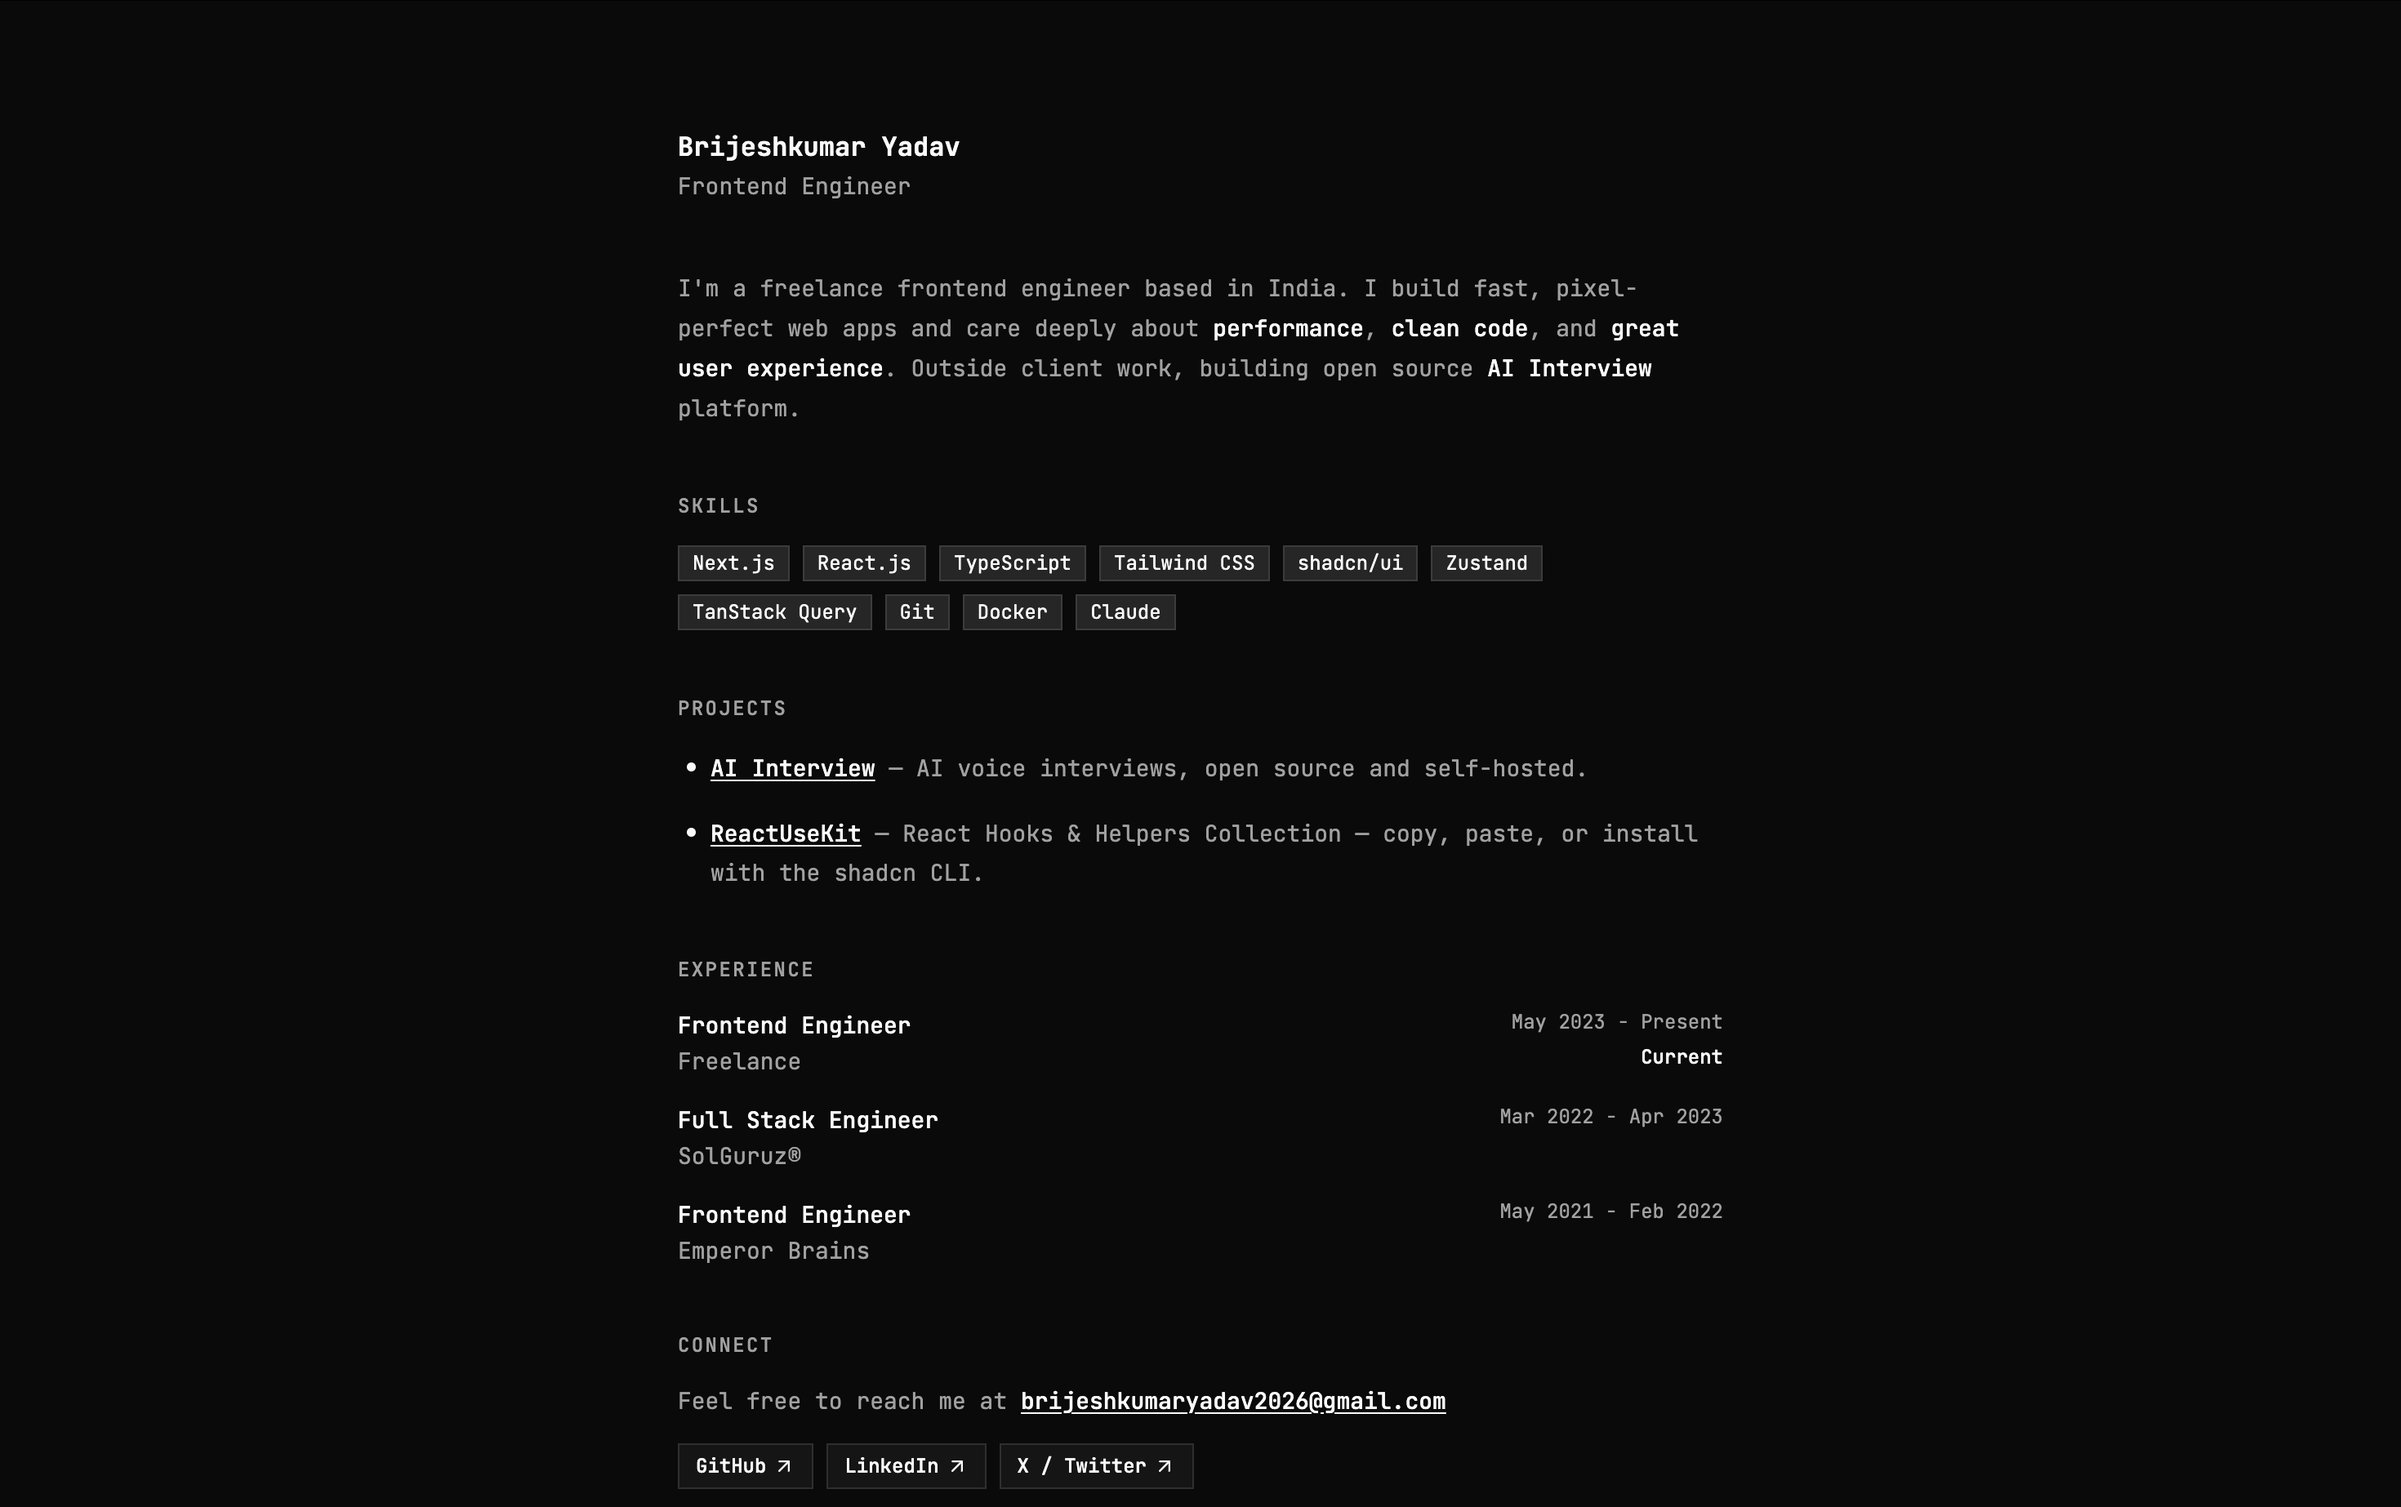
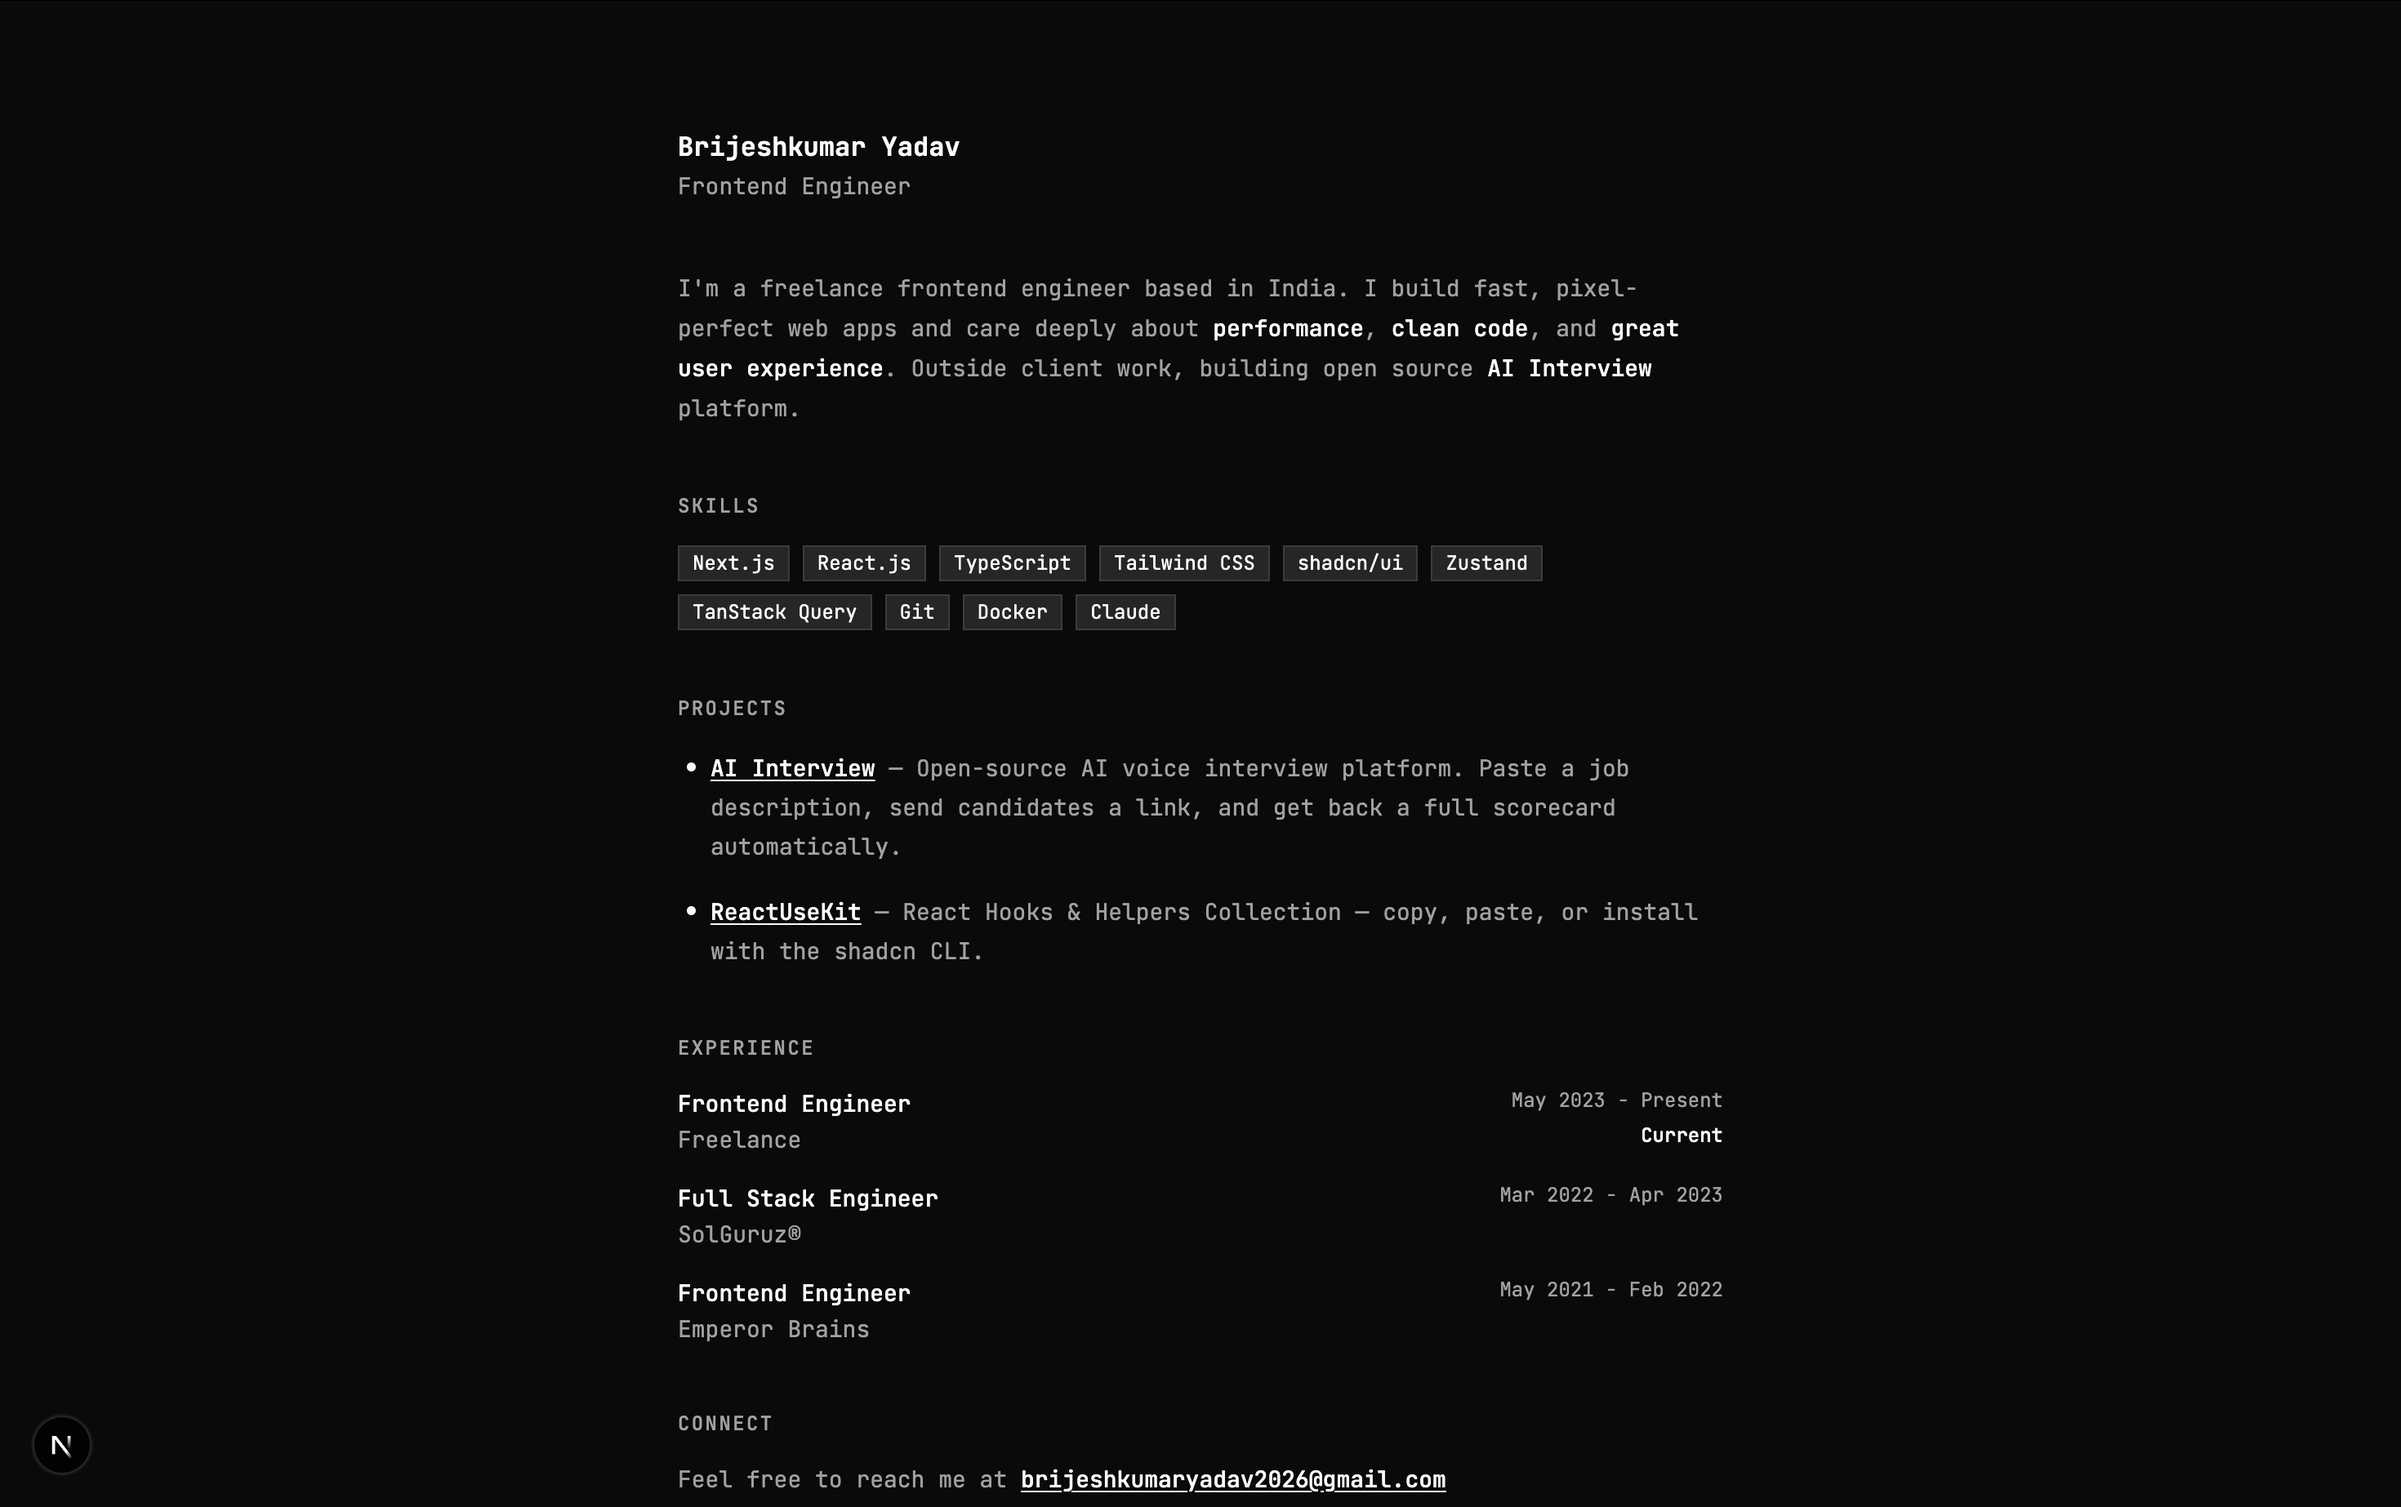
chore: update AI Interview description and refresh screenshots

diff --git a/src/lib/data.ts b/src/lib/data.ts
@@ -57,7 +57,8 @@ export const workExperience: WorkExperience[] = [
 export const projects: Project[] = [
   {
     title: "AI Interview",
-    description: "AI voice interviews, open source and self-hosted.",
+    description:
+      "Open-source AI voice interview platform. Paste a job description, send candidates a link, and get back a full scorecard automatically.",
     techStack: ["Next.js", "Tailwind CSS", "shadcn/ui", "better-auth", "AI", "Voice AI"],
     githubUrl: "https://github.com/brijeshmarch16/ai-interview",
     liveUrl: "https://ai-interview.brijeshkumaryadav.com",
